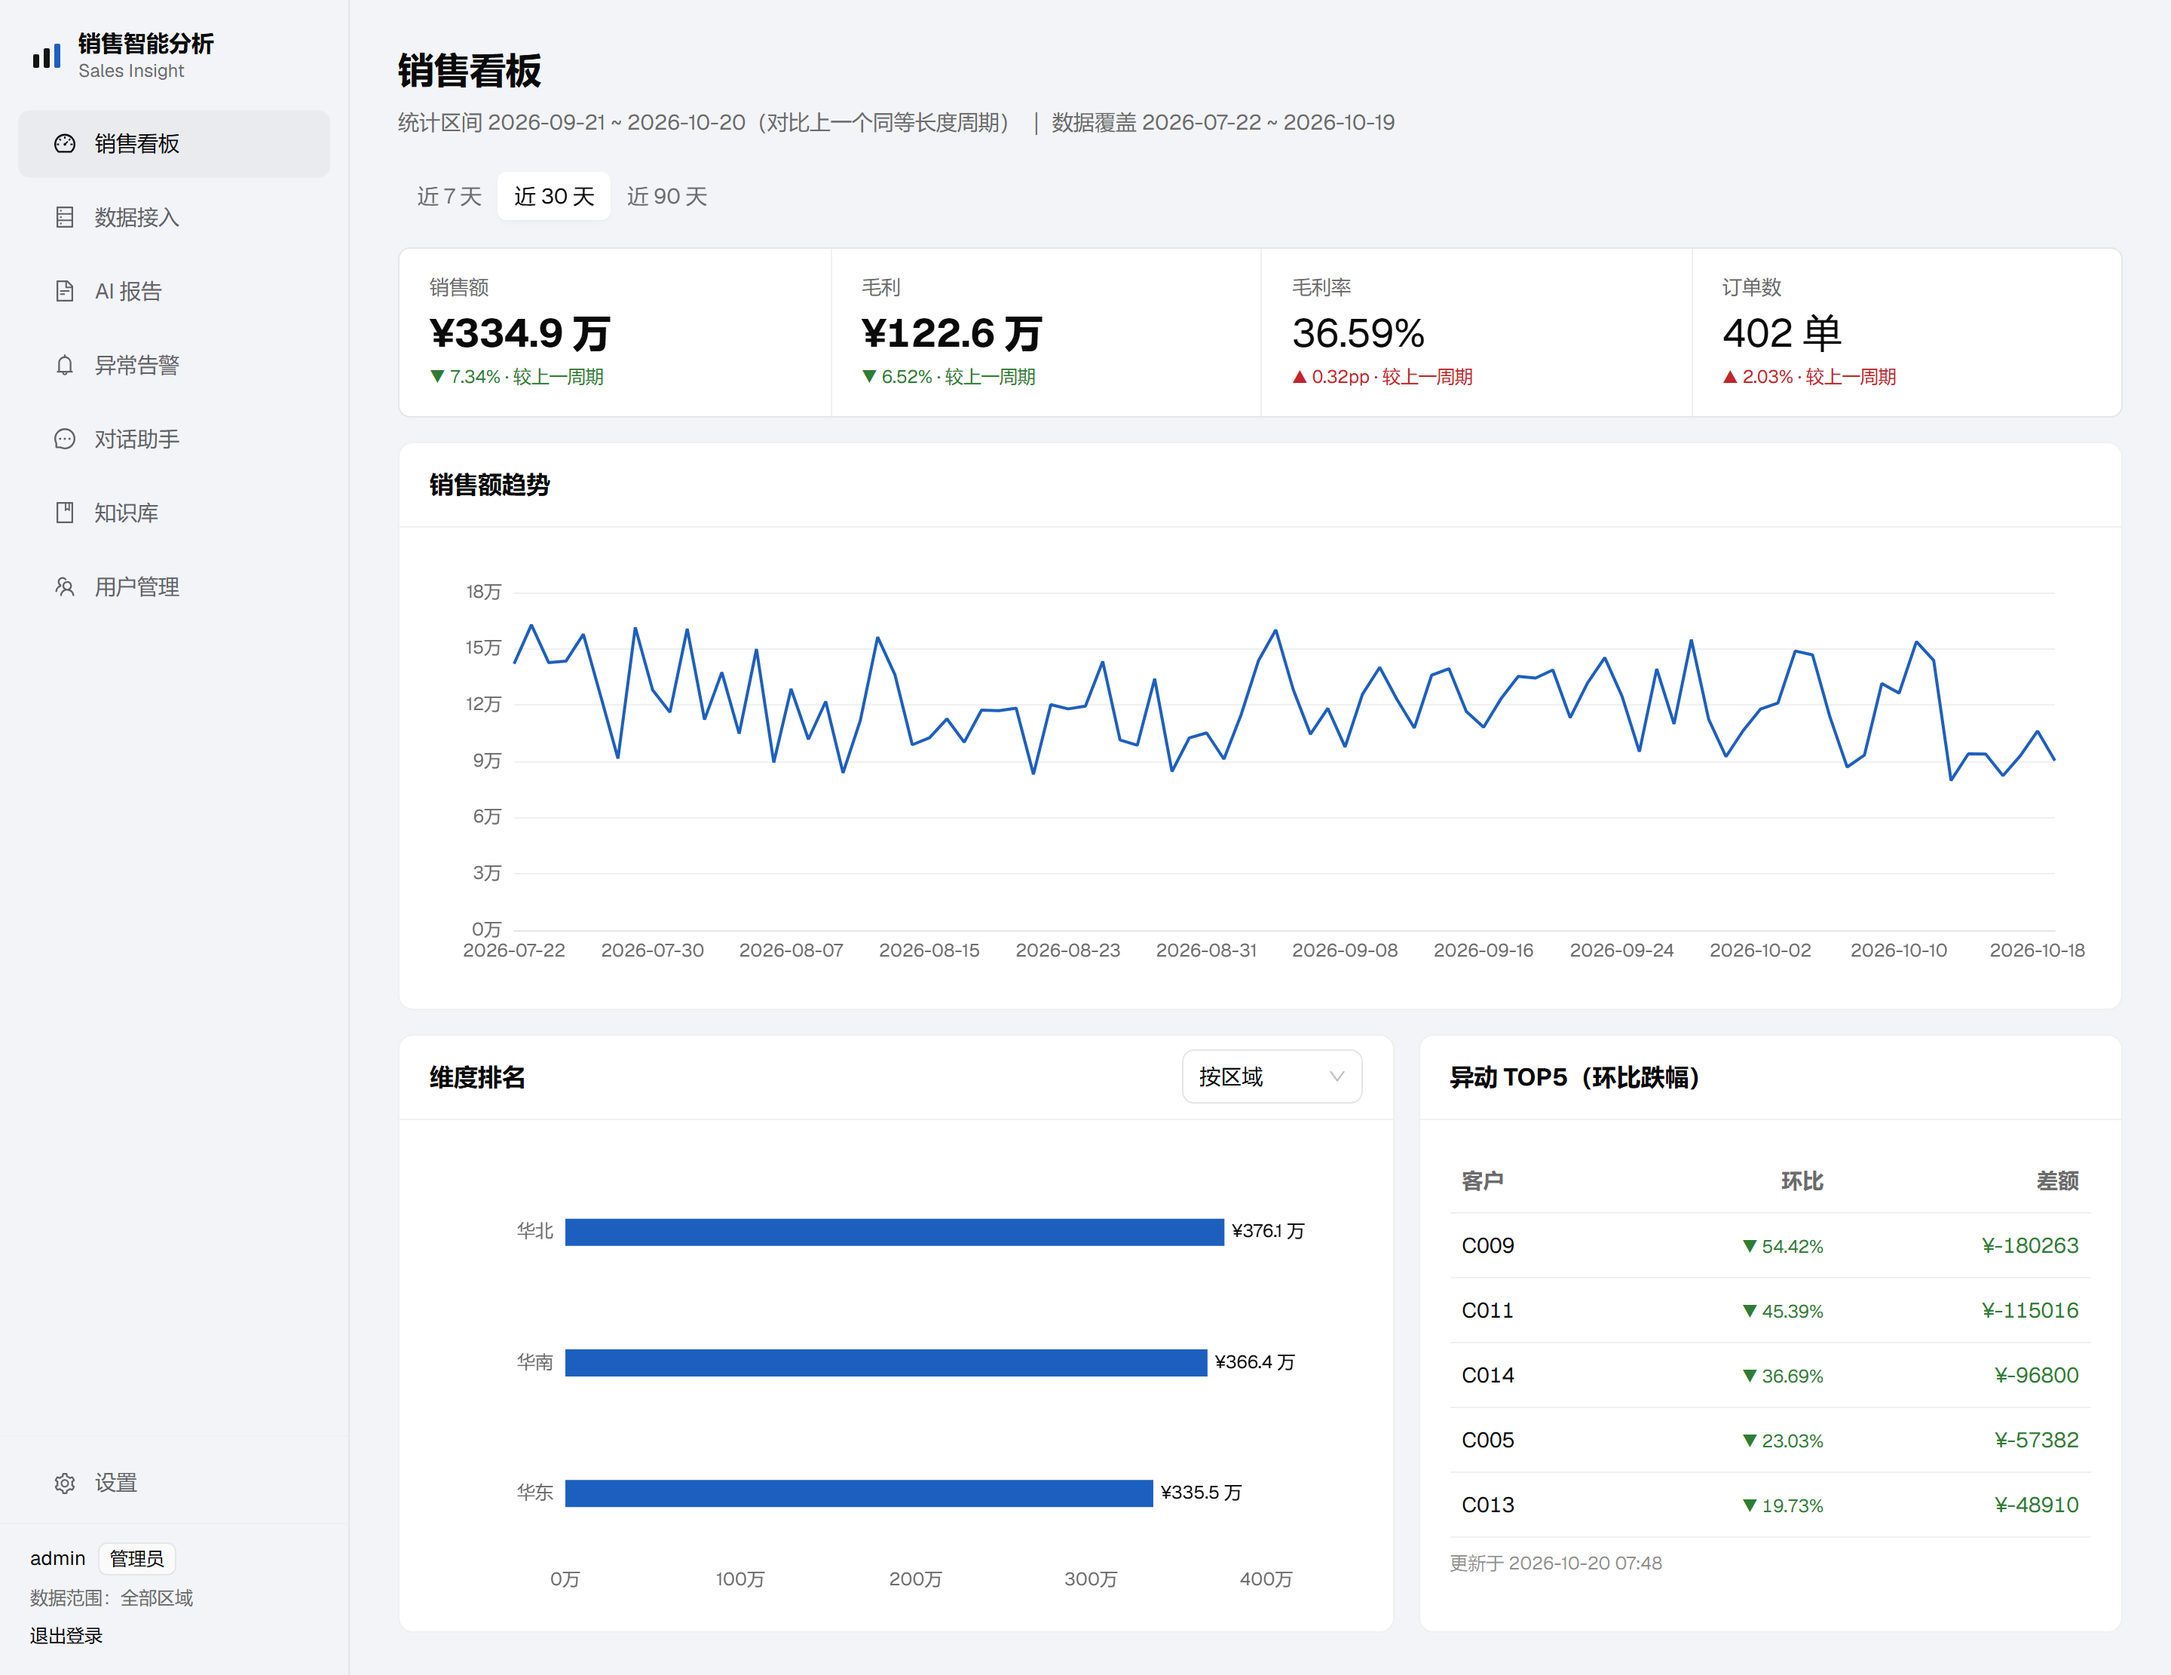
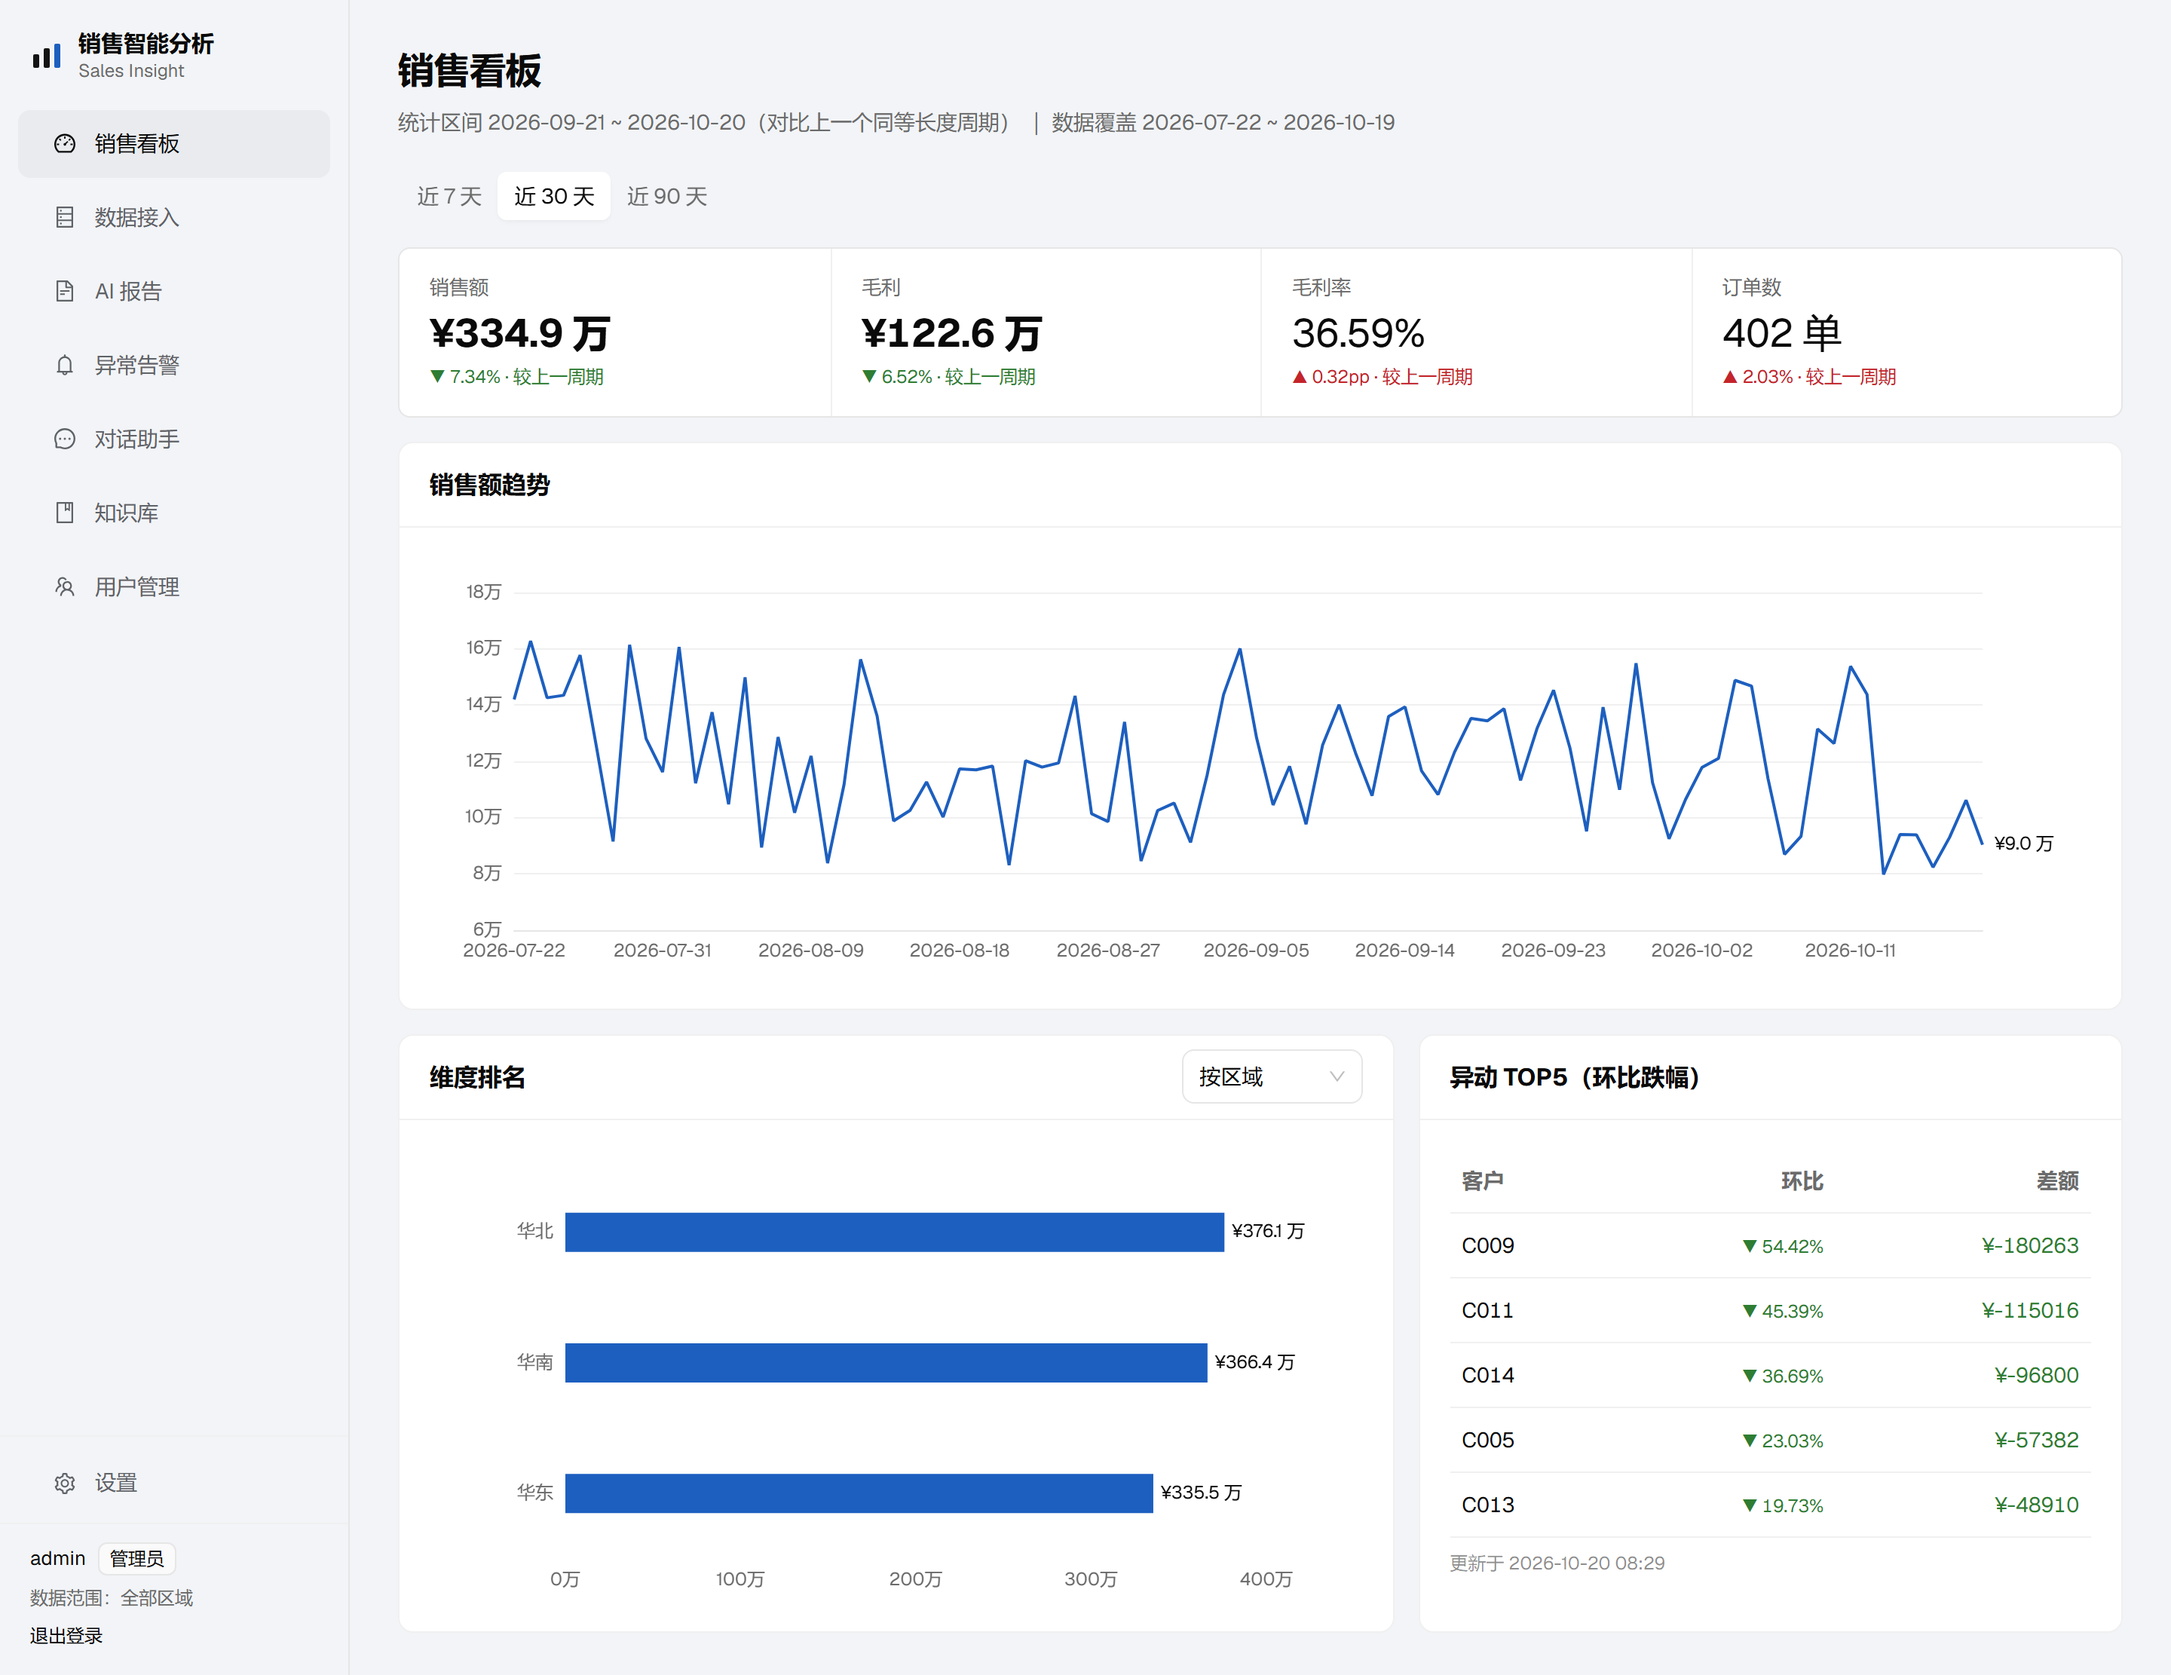
style(dashboard): 第二轮视觉打磨——图表与加载态
- 趋势图 y 轴 scale:true，波动区充满绘图区；末端标注最新值（grid.right 加宽防裁切）
- 维度排名 barMaxWidth 18→26，少维度时不再显得稀
- 加载态从全屏 Spin 换成按最终版型画的骨架屏（KPI strip 占位 + 卡片骨架）
- 对话页"最近提问"8→5 行
- 重拍 01-dashboard / 02-chat-rag 截图

diff --git a/frontend/src/pages/Dashboard.tsx b/frontend/src/pages/Dashboard.tsx
@@ -1,5 +1,5 @@
 import { useCallback, useEffect, useState } from 'react'
-import { App as AntApp, Card, Col, Empty, Row, Segmented, Select, Spin, Table, Typography } from 'antd'
+import { App as AntApp, Card, Col, Empty, Row, Segmented, Select, Skeleton, Table, Typography } from 'antd'
 import ReactECharts from 'echarts-for-react'
 import dayjs from 'dayjs'
 import { metricsApi, type BreakItem, type SummaryResp, type TrendItem } from '../api/api'
@@ -114,7 +114,24 @@ export default function Dashboard() {
     // eslint-disable-next-line react-hooks/exhaustive-deps
   }, [dim])
 
-  if (loading) return <div style={{ textAlign: 'center', padding: 80 }}><Spin size="large" tip="加载中" /></div>
+  // 加载态画最终版型的骨架：KPI 条与图表的框先立住，数据落地时布局不跳动
+  if (loading) {
+    return (
+      <div>
+        <h1 className="page-title">销售看板</h1>
+        <p className="page-desc">数据加载中…</p>
+        <div className="kpi-strip" style={{ marginBottom: 16 }}>
+          {[0, 1, 2, 3].map((i) => (
+            <div className="kpi-cell" key={i}>
+              <div className="kpi-label">&nbsp;</div>
+              <Skeleton.Button active size="small" style={{ width: 96, height: 26 }} />
+            </div>
+          ))}
+        </div>
+        <Card><Skeleton active paragraph={{ rows: 6 }} title={false} /></Card>
+      </div>
+    )
+  }
 
   if (!hasData) {
     return (
@@ -134,7 +151,8 @@ export default function Dashboard() {
   const trendOption = {
     textStyle: { fontFamily: CHART_FONT },
     tooltip: { trigger: 'axis' as const },
-    grid: { left: 56, right: 24, top: 24, bottom: 32 },
+    // right 留出末端数值标注的位置，避免被裁切
+    grid: { left: 56, right: 72, top: 24, bottom: 32 },
     xAxis: {
       type: 'category' as const,
       data: trend.map((t) => t.date),
@@ -144,6 +162,9 @@ export default function Dashboard() {
     },
     yAxis: {
       type: 'value' as const,
+      // scale: true 让 y 轴从数据最小值附近起，波动区充满绘图区而不是只占上 2/3。
+      // 趋势图看的是"变化形状"，不是绝对量级，不从 0 起不会误导（KPI 卡已给绝对值）。
+      scale: true,
       ...axisBase,
       splitLine: { lineStyle: { color: GRID_LINE } },
       axisLabel: { ...axisBase.axisLabel, formatter: (v: number) => `${(v / 10000).toFixed(0)}万` },
@@ -155,6 +176,14 @@ export default function Dashboard() {
       symbol: 'none',
       itemStyle: { color: CHART_HUE },
       lineStyle: { width: 2, color: CHART_HUE },
+      // 末端标注最新值：图自己说话，读者不用回查 tooltip
+      endLabel: {
+        show: true,
+        color: '#0a0a0a',
+        fontSize: 12,
+        fontFamily: CHART_FONT,
+        formatter: (p: { value: number }) => fmtMoney(p.value),
+      },
     }],
   }
 
@@ -176,7 +205,8 @@ export default function Dashboard() {
     series: [{
       type: 'bar' as const,
       data: breakdown.map((b) => b.revenue).reverse(),
-      barMaxWidth: 18,
+      // 维度少时（3 根）柱太细显得空隙过大，放宽到 26
+      barMaxWidth: 26,
       // 直角柱；唯一的 hue 给这个主数据元素
       itemStyle: { color: CHART_HUE },
       label: {

diff --git a/frontend/src/pages/Chat.tsx b/frontend/src/pages/Chat.tsx
@@ -86,7 +86,8 @@ export default function Chat() {
   const bottomRef = useRef<HTMLDivElement>(null)
 
   const loadHistory = async () => {
-    try { setHistory(await aiApi.chatHistory(8)) } catch { /* 历史加载失败不影响主流程 */ }
+    // 侧栏"最近提问"只作入口，5 行足够；8 行在演示数据下全是重复问题
+    try { setHistory(await aiApi.chatHistory(5)) } catch { /* 历史加载失败不影响主流程 */ }
   }
   useEffect(() => { void loadHistory() }, [])
 
